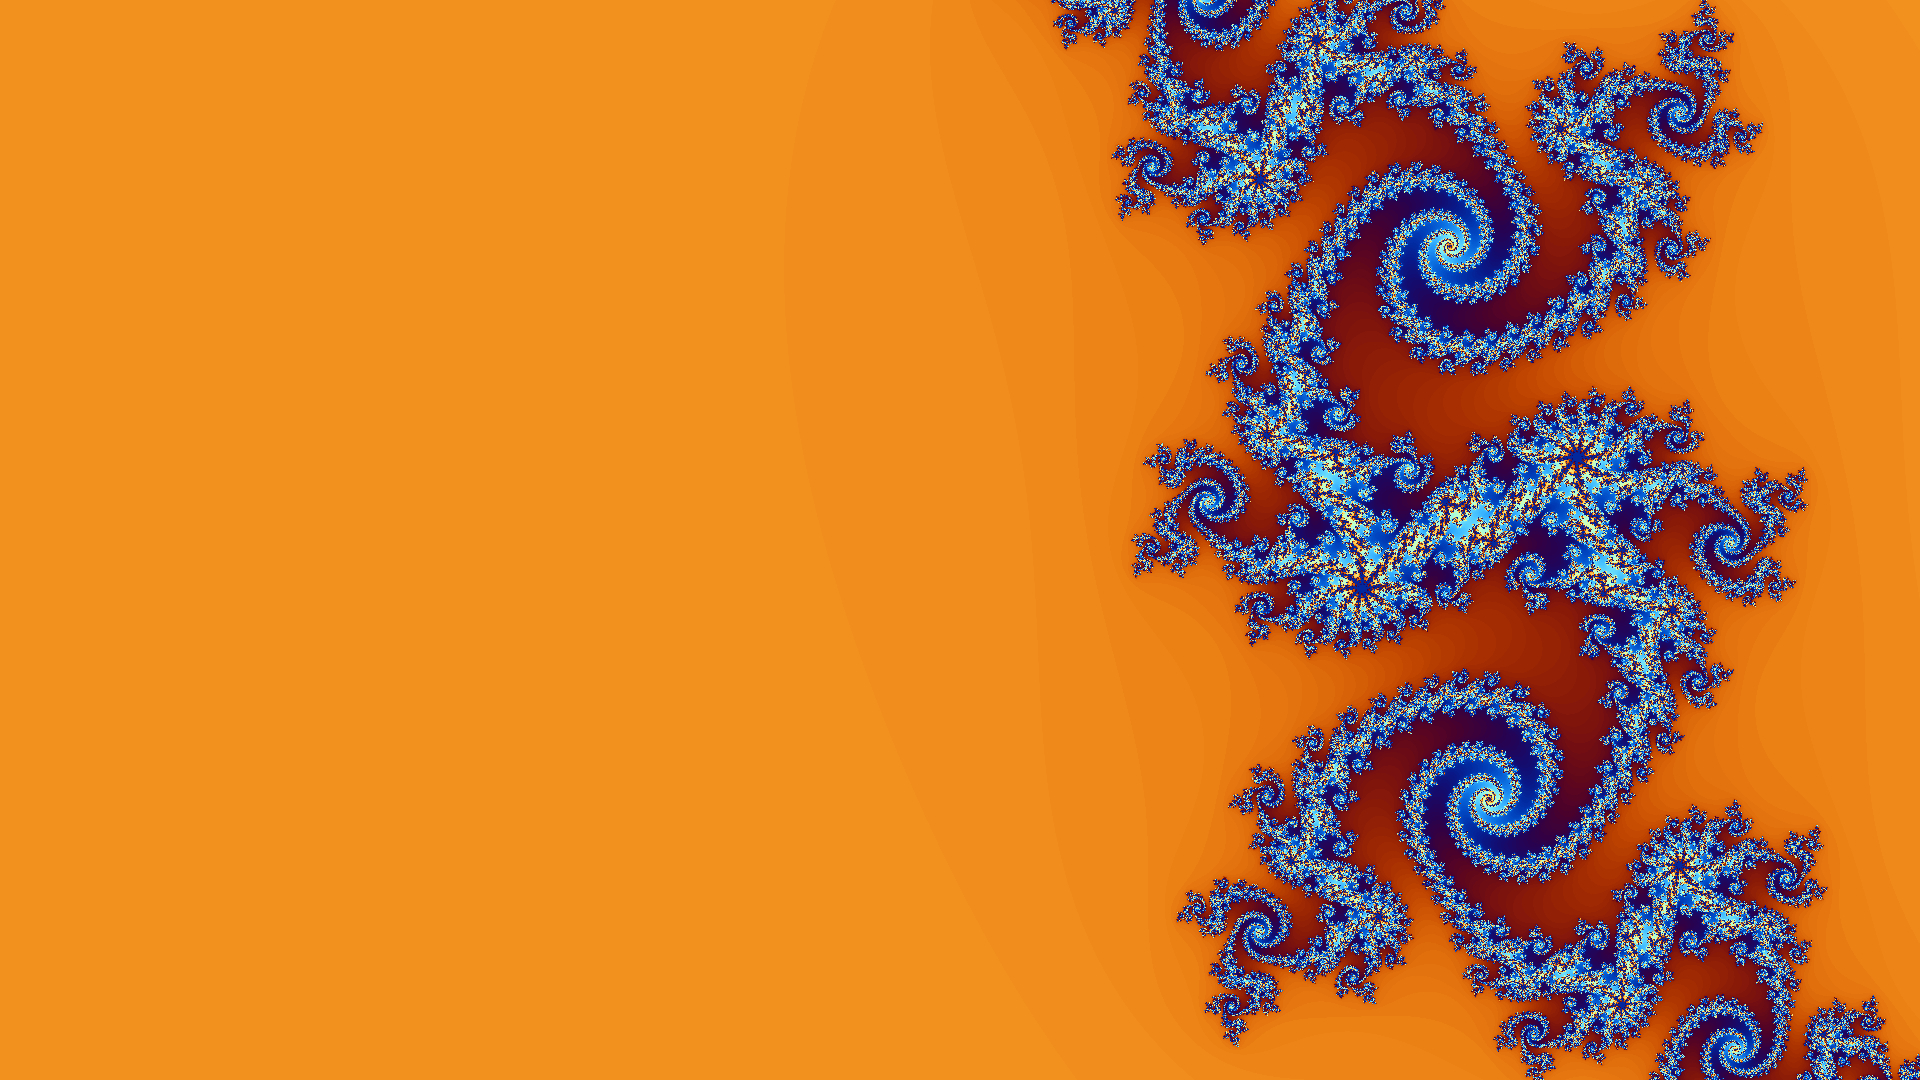
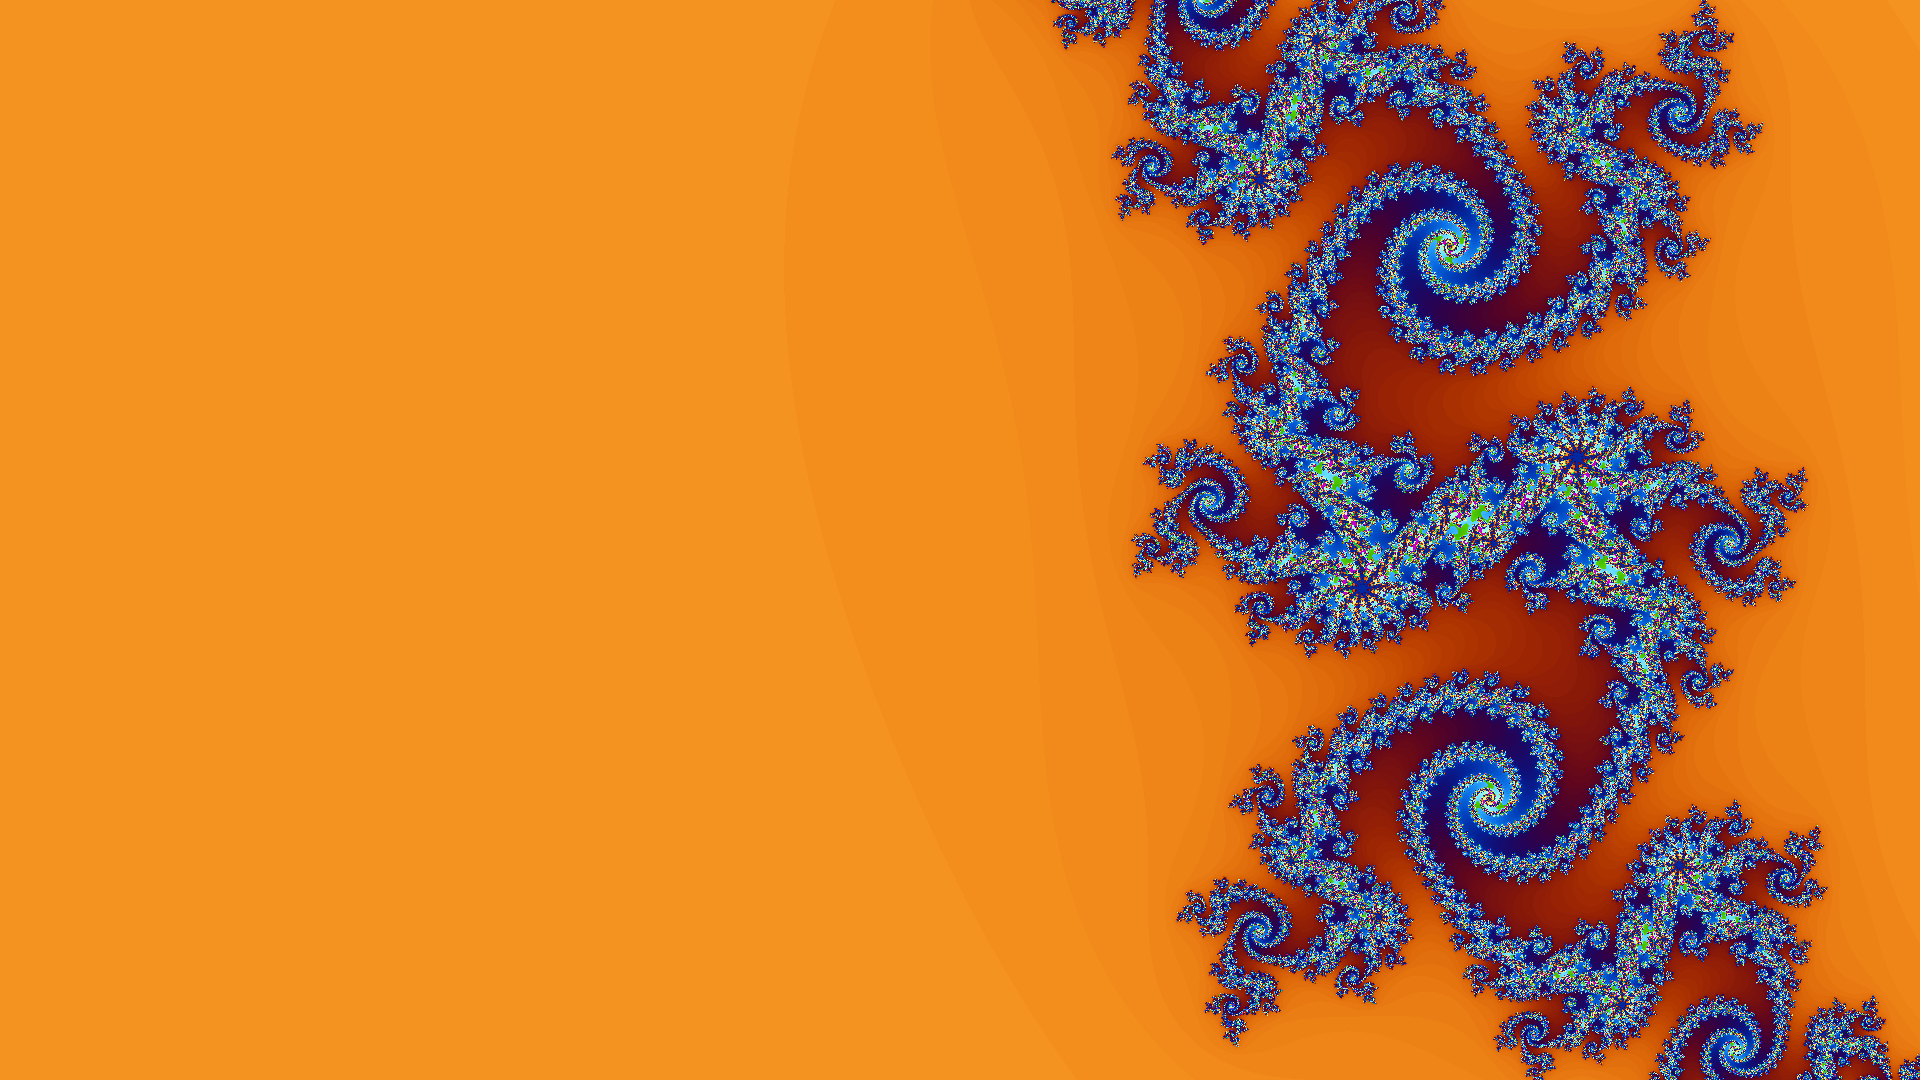
Moved max iterations to a separate constant

diff --git a/include/Fractal/colormap.h b/include/Fractal/colormap.h
@@ -11,6 +11,7 @@
 #define _COLORMAP_H_
 
 // Headers being used
+#include "const.h"
 #include "color.h"
 
 // Libraries being used
@@ -109,7 +110,7 @@ namespace fractal
 
 		/**
 		 * Maps a given number of iterations to a color
-		 * using a rainbow gradient (using sine waves)
+		 * using using sinusoidal functions
 		 *
 		 * @author  Anshul Kharbanda
 		 * @created 8 - 19 - 2016
@@ -120,12 +121,12 @@ namespace fractal
 			/**
 			 * The center of the sine wave
 			 */
-			static const double CENTER  = 128;
+			static const double CENTER = MAX_ITER/2 + 1;
 
 			/**
 			 * The width of the sine wave
 			 */
-			static const double WIDTH   = 127;
+			static const double WIDTH  = MAX_ITER/2;
 
 			/**
 			 * The default phase shift of red

diff --git a/src/color.cpp b/src/color.cpp
@@ -7,7 +7,8 @@
 // Created: 8 - 14 - 2016
 //-----------------------------------------------------------------------------------
 
-// Headers being used
+// Headers being useds
+#include "Fractal/const.h"
 #include "Fractal/color.h"
 
 /**
@@ -89,9 +90,9 @@ namespace fractal
 		 */
 		ColorGradientRGB::ColorGradientRGB(ColorRGB first, ColorRGB last)
 		{
-			red   = (last.red   - first.red)   / 256.0;
-			green = (last.green - first.green) / 256.0;
-			blue  = (last.blue  - first.blue)  / 256.0;
+			red   = (last.red   - first.red)   / ((double)MAX_ITER);
+			green = (last.green - first.green) / ((double)MAX_ITER);
+			blue  = (last.blue  - first.blue)  / ((double)MAX_ITER);
 
 		}
 

diff --git a/include/Fractal/const.h b/include/Fractal/const.h
@@ -1,0 +1,27 @@
+//-----------------------------------------------------------------------------------
+// Program: Fractal
+// 
+// Generates Julia and Mandelbrot Set fractal images
+//
+// Author:  Anshul Kharbanda
+// Created: 8 - 14 - 2016
+//-----------------------------------------------------------------------------------
+
+#ifndef _CONST_H_
+#define _CONST_H_
+
+/**
+ * Contains functions and structs used by Fractal generator
+ * 
+ * @author  Anshul Kharbanda
+ * @created 8 - 17 - 2016
+ */
+namespace fractal
+{
+	/**
+	 * Maximum iterations being performed
+	 */
+	const int MAX_ITER = 256;
+}
+
+#endif

diff --git a/src/fractal.cpp b/src/fractal.cpp
@@ -39,8 +39,8 @@ namespace fractal
 		// Iterations at this point
 		unsigned n;
 
-		// Try 256 iterations
-		for (n = 0; n < 256; n++)
+		// Iterative process
+		for (n = 0; n < MAX_ITER; n++)
 		{
 			// Iteration function
 			z = pow(z, 2) + c;
@@ -68,8 +68,8 @@ namespace fractal
 		// Zero z
 		complex<double>z;
 
-		// Try 256 iterations
-		for (n = 0; n < 256; ++n)
+		// Iterative process
+		for (n = 0; n < MAX_ITER; ++n)
 		{
 			// Iteration function
 			z = pow(z, 2) + c;

diff --git a/src/colormap.cpp b/src/colormap.cpp
@@ -125,7 +125,7 @@ namespace fractal
 		ColorRGB RainbowMapRGB::color(unsigned iterations) const
 		{
 			// Change iterations space to radians
-			double angle = iterations / 256.0 * (2*M_PI);
+			double angle = iterations / ((double)MAX_ITER) * (2*M_PI);
 
 			// Generate color
 			return ColorRGB(

diff --git a/include/Fractal/fractal.h b/include/Fractal/fractal.h
@@ -11,6 +11,7 @@
 #define _FUNCTIONS_H_
 
 // Headers being used
+#include "const.h"
 #include "colormap.h"
 #include "CImg/CImg.h"
 #include "transform.h"
